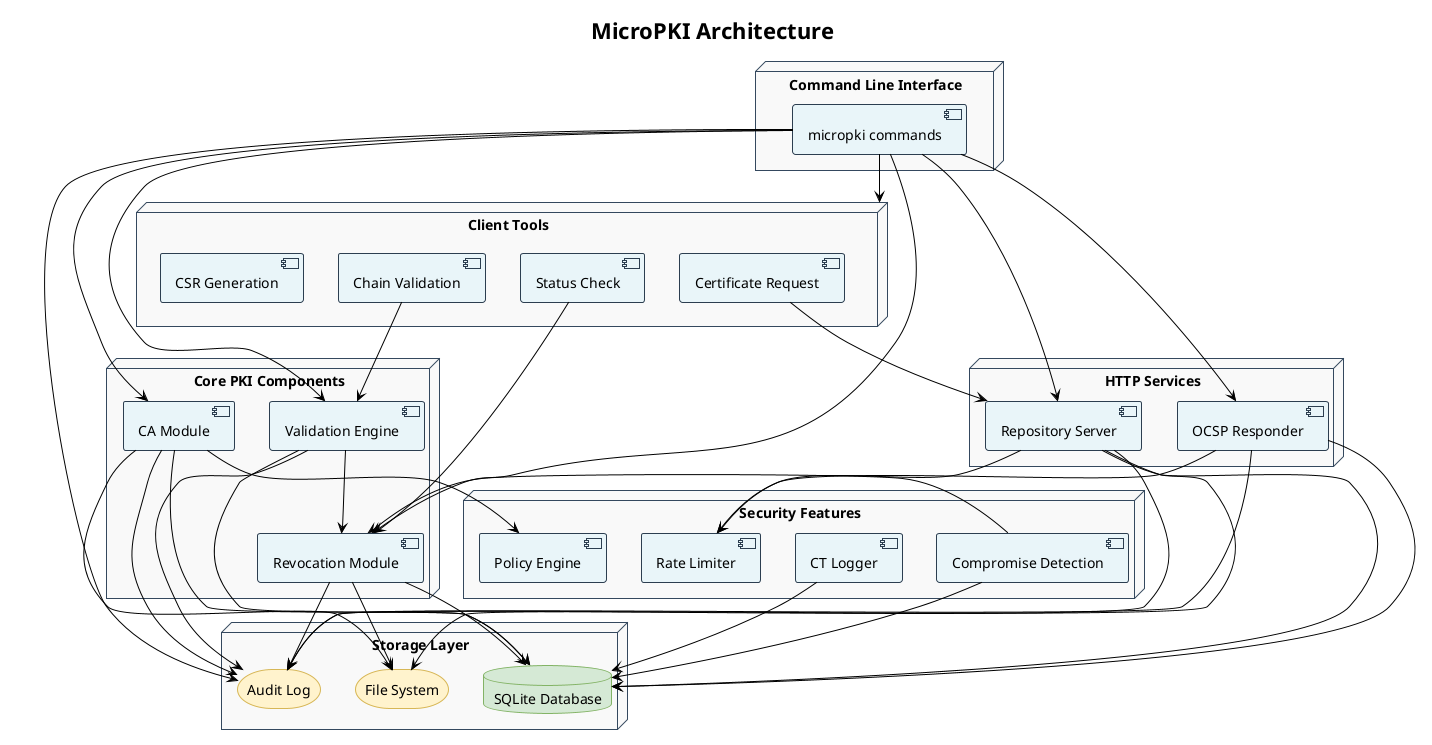
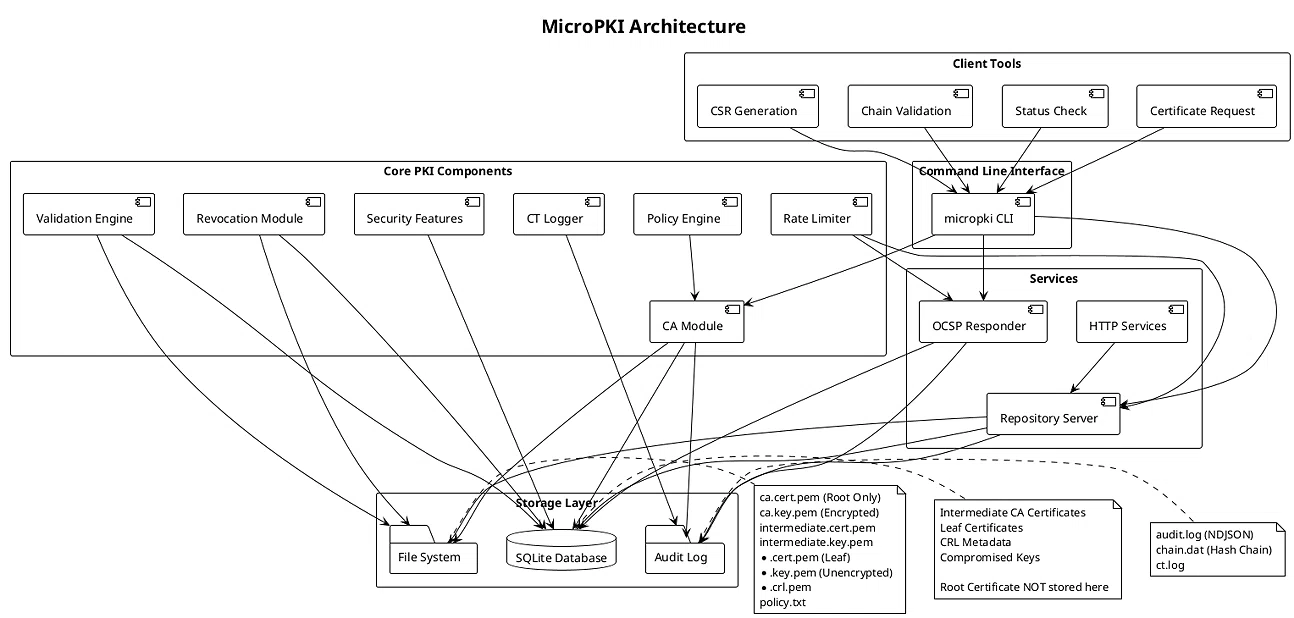
Правки в архитектуре.

Changed region(s): [[0.0309, 0.0307, 1.0, 1.0], [0.9583, 0.7071, 0.9892, 0.7686]]

diff --git a/micropki/cmd/micropki/main.go b/micropki/cmd/micropki/main.go
@@ -660,8 +660,8 @@ func runCAInit(cmd *cobra.Command, args []string) error {
 	if err := pol.ValidateKeySize(keyType, keySize, policy.RootCA); err != nil {
 		logger.Error("нарушение политики размера ключа: %v", err)
 		logger.LogAuditError("policy_violation", err.Error(), map[string]interface{}{
-			"key_type": keyType,
-			"key_size": keySize,
+			"key_type":  keyType,
+			"key_size":  keySize,
 			"cert_type": "root_ca",
 		})
 		return err
@@ -670,7 +670,7 @@ func runCAInit(cmd *cobra.Command, args []string) error {
 		logger.Error("нарушение политики срока действия: %v", err)
 		logger.LogAuditError("policy_violation", err.Error(), map[string]interface{}{
 			"validity_days": validityDays,
-			"cert_type": "root_ca",
+			"cert_type":     "root_ca",
 		})
 		return err
 	}
@@ -690,7 +690,6 @@ func runCAInit(cmd *cobra.Command, args []string) error {
 			logger.Warn("не удалось открыть БД: %v", err)
 		} else {
 			defer db.Close()
-			certs.InitSerialGenerator(db)
 		}
 	}
 
@@ -746,8 +745,8 @@ func runCAIssueIntermediate(cmd *cobra.Command, args []string) error {
 	if err := pol.ValidateKeySize(keyType, keySize, policy.IntermediateCA); err != nil {
 		logger.Error("нарушение политики размера ключа: %v", err)
 		logger.LogAuditError("policy_violation", err.Error(), map[string]interface{}{
-			"key_type": keyType,
-			"key_size": keySize,
+			"key_type":  keyType,
+			"key_size":  keySize,
 			"cert_type": "intermediate_ca",
 		})
 		return err
@@ -756,7 +755,7 @@ func runCAIssueIntermediate(cmd *cobra.Command, args []string) error {
 		logger.Error("нарушение политики срока действия: %v", err)
 		logger.LogAuditError("policy_violation", err.Error(), map[string]interface{}{
 			"validity_days": validityDays,
-			"cert_type": "intermediate_ca",
+			"cert_type":     "intermediate_ca",
 		})
 		return err
 	}
@@ -1039,12 +1038,12 @@ func runCAIssueCert(cmd *cobra.Command, args []string) error {
 	initAuditIfNeeded(filepath.Dir(filepath.Dir(outDir)))
 
 	pol := getPolicy()
-	
+
 	if err := pol.ValidateValidityPeriod(policy.EndEntity, validityDays); err != nil {
 		logger.Error("нарушение политики срока действия: %v", err)
 		logger.LogAuditError("policy_violation", err.Error(), map[string]interface{}{
 			"validity_days": validityDays,
-			"cert_type": "end_entity",
+			"cert_type":     "end_entity",
 		})
 		return err
 	}

diff --git a/micropki/internal/ca/ca.go b/micropki/internal/ca/ca.go
@@ -164,14 +164,7 @@ func (ca *RootCA) Initialize() error {
 	}
 	logger.Info("сертификат сохранен")
 
-	if ca.DB != nil {
-		logger.Info("сохранение корневого сертификата в БД")
-		if err := ca.DB.InsertCertificate(ca.certificate, ca.certPEM, "valid"); err != nil {
-			logger.Error("ошибка вставки сертификата в БД: %v", err)
-		} else {
-			logger.Info("корневой сертификат сохранен в БД")
-		}
-	}
+	// Корневой сертификат НЕ сохраняется в БД (только в файловой системе)
 
 	logger.Info("проверка соответствия ключа и сертификата...")
 	if err := ca.verifyKeyPair(); err != nil {

diff --git a/README.md b/README.md
@@ -1,7 +1,7 @@
 # MicroPKI
 
 [![License: MIT](https://img.shields.io/badge/License-MIT-yellow.svg)](https://opensource.org/licenses/MIT)
-[![Coverage](https://img.shields.io/badge/coverage-79.3%25-brightgreen)](https://github.com/serblowup/MicroPKI)
+[![Coverage](https://img.shields.io/badge/coverage-79.2%25-brightgreen)](https://github.com/serblowup/MicroPKI)
 
 Минимальная реализация инфраструктуры открытых ключей (PKI) в рамках курса криптографии.
 
@@ -29,9 +29,9 @@
 - Безопасное хранение ключей с шифрованием (AES-256)
 - Генерация X.509 сертификатов с правильными расширениями
 - Документирование политики сертификации
-- SQLite БД для хранения всех выпущенных сертификатов
+- SQLite БД для хранения сертификатов **промежуточных УЦ и конечных субъектов** (корневой сертификат хранится только в файловой системе)
 - Уникальные серийные номера (64-битные: timestamp + random)
-- Автоматическое сохранение сертификатов в БД при выпуске
+- Автоматическое сохранение сертификатов в БД при выпуске (intermediate и leaf)
 - Просмотр сертификатов в табличном, JSON и CSV форматах
 - HTTP репозиторий для получения сертификатов, CRL и приема CSR по API
 
@@ -48,8 +48,8 @@
 | **CA Module** | Создание и управление корневым и промежуточными УЦ, выпуск сертификатов с поддержкой шаблонов |
 | **Validation Engine** | Построение цепочек сертификатов, валидация путей по RFC 5280, проверка подписей и сроков действия |
 | **Revocation Module** | Управление отзывом сертификатов, генерация CRL, OCSP-ответчик для проверки статуса в реальном времени |
-| **SQLite Database** | Хранение всех выпущенных сертификатов, метаданных CRL и скомпрометированных ключей |
-| **File System** | Хранение зашифрованных ключей УЦ, PEM-сертификатов и CRL-файлов с правами 0600/0700 |
+| **SQLite Database** | Хранение сертификатов **промежуточных УЦ и конечных субъектов**, метаданных CRL и скомпрометированных ключей. **Корневой сертификат хранится только в файловой системе.** |
+| **File System** | Хранение зашифрованных ключей УЦ, PEM-сертификатов (включая корневой) и CRL-файлов с правами 0600/0700 |
 | **Audit Log** | NDJSON-формат с SHA-256 хеш-цепочкой для защиты от подделки |
 | **Repository Server** | HTTP API для получения сертификатов, распространения CRL и приёма CSR |
 | **OCSP Responder** | Ответчик по протоколу OCSP с кэшированием и ограничением частоты запросов |
@@ -58,7 +58,6 @@
 | **CT Logger** | Симуляция Certificate Transparency для аудита |
 | **Compromise Detection** | Отслеживание скомпрометированных ключей и блокировка их повторного использования |
 | **Client Tools** | Утилиты для генерации CSR, запроса сертификатов, валидации цепочек и проверки статуса |
-```
 
 ## Требования
 
@@ -123,7 +122,8 @@ make scripts
 #### `ca init` - инициализация корневого УЦ
 
 ```bash
-# Создание корневого УЦ (RSA 4096) с сохранением в БД
+# Создание корневого УЦ (RSA 4096)
+# Корневой сертификат сохраняется ТОЛЬКО в файловой системе (не в БД)
 ./bin/micropki ca init \
     --subject "/CN=Test Root CA" \
     --key-type rsa \
@@ -416,6 +416,8 @@ make scripts
 | `--format` | Формат вывода: `table`, `json`, `csv` | `table` |
 | `--log-file` | Файл для логов | stderr |
 
+**Примечание:** Команда `list-certs` показывает только сертификаты, сохранённые в БД (промежуточные УЦ и конечные). Корневой сертификат в этот список **не включается**, так как он хранится только в файловой системе.
+
 #### `ca show-cert` - просмотр конкретного сертификата
 
 ```bash
@@ -431,6 +433,8 @@ make scripts
 | `serial` | Серийный номер в hex формате (обязательно) | - |
 | `--db-path` | Путь к SQLite базе данных | `./pki/micropki.db` |
 | `--log-file` | Файл для логов | stderr |
+
+**Примечание:** Команда `show-cert` ищет сертификат только в БД. Для получения корневого сертификата используйте `GET /ca/root` или直接 читайте файл `certs/ca.cert.pem`.
 
 #### `ca verify` - проверка цепочки сертификатов
 
@@ -859,6 +863,8 @@ curl http://127.0.0.1:8080/ca/intermediate -o inter.pem
 curl http://127.0.0.1:8080/certificate/0baee839362091a1 -o cert.pem
 ```
 
+> **Примечание:** Этот эндпоинт ищет сертификаты **только в БД**. Корневой сертификат (который не сохраняется в БД) через этот эндпоинт недоступен. Для получения корневого сертификата используйте `GET /ca/root`.
+
 #### `POST /request-cert` - запрос сертификата из CSR
 
 ```bash
@@ -906,28 +912,28 @@ curl "http://127.0.0.1:8080/crl?ca=root" -o root.crl.pem
 
 ```
 ./pki/
-├── micropki.db                  # SQLite база данных
+├── micropki.db                  # SQLite база данных (intermediate и leaf сертификаты)
 ├── audit/                       # Аудит-система
 │   ├── audit.log               # Аудит-лог (NDJSON)
 │   ├── chain.dat               # Хеш-цепочка
-│   └── ct.log                   # CT лог
+│   └── ct.log                  # CT лог
 ├── private/
-│   ├── ca.key.pem               # зашифрованный ключ корневого УЦ (0600)
-│   └── intermediate.key.pem     # зашифрованный ключ промежуточного УЦ (0600)
+│   ├── ca.key.pem              # зашифрованный ключ корневого УЦ (0600)
+│   └── intermediate.key.pem    # зашифрованный ключ промежуточного УЦ (0600)
 ├── certs/
-│   ├── ca.cert.pem              # сертификат корневого УЦ
-│   ├── intermediate.cert.pem    # сертификат промежуточного УЦ
-│   ├── example.com.cert.pem     # конечные сертификаты
-│   └── example.com.key.pem      # незашифрованные ключи (0600)
+│   ├── ca.cert.pem             # сертификат корневого УЦ (только в ФС)
+│   ├── intermediate.cert.pem   # сертификат промежуточного УЦ
+│   ├── example.com.cert.pem    # конечные сертификаты
+│   └── example.com.key.pem     # незашифрованные ключи (0600)
 ├── csrs/
-│   └── intermediate.csr.pem     # CSR промежуточного УЦ
-├── crl/                         # CRL файлы
-│   ├── root.crl.pem             # CRL корневого УЦ
-│   └── intermediate.crl.pem     # CRL промежуточного УЦ
-├── ocsp/                        # OCSP файлы
-│   ├── ocsp.cert.pem            # сертификат OCSP-ответчика
-│   └── ocsp.key.pem             # незашифрованный ключ OCSP-ответчика (0600)
-└── policy.txt                   # документ политики сертификации
+│   └── intermediate.csr.pem    # CSR промежуточного УЦ
+├── crl/                        # CRL файлы
+│   ├── root.crl.pem            # CRL корневого УЦ
+│   └── intermediate.crl.pem    # CRL промежуточного УЦ
+├── ocsp/                       # OCSP файлы
+│   ├── ocsp.cert.pem           # сертификат OCSP-ответчика
+│   └── ocsp.key.pem            # незашифрованный ключ OCSP-ответчика (0600)
+└── policy.txt                  # документ политики сертификации
 ```
 
 ---
@@ -942,7 +948,7 @@ curl "http://127.0.0.1:8080/crl?ca=root" -o root.crl.pem
 echo "rootpass123" > ./root.pass
 echo "interpass123" > ./inter.pass
 
-# 3. Создание корневого УЦ
+# 3. Создание корневого УЦ (сертификат НЕ сохраняется в БД)
 ./bin/micropki ca init \
     --subject "/CN=Test Root CA" \
     --passphrase-file ./root.pass \
@@ -950,7 +956,7 @@ echo "interpass123" > ./inter.pass
     --db-path ./pki/micropki.db \
     --force
 
-# 4. Создание промежуточного УЦ
+# 4. Создание промежуточного УЦ (сертификат сохраняется в БД)
 ./bin/micropki ca issue-intermediate \
     --root-cert ./pki/certs/ca.cert.pem \
     --root-key ./pki/private/ca.key.pem \
@@ -1092,7 +1098,7 @@ make test-audit
 3. **Ключи конечных субъектов**: сохраняются незашифрованными с правами 0600 (с предупреждением)
 4. **Парольная фраза**: никогда не попадает в логи (автоматически скрывается)
 5. **Временные данные**: очищаются из памяти после использования
-6. **База данных**: SQLite с правами 0644, чувствительные данные не хранятся
+6. **База данных**: SQLite с правами 0644, содержит **только сертификаты промежуточных УЦ и конечных субъектов**. **Корневой сертификат хранится только в файловой системе** и не дублируется в БД.
 7. **Аудит-лог**: криптографическая целостность через SHA-256 хеш-цепочку, защита от подделки
 8. **Политики безопасности**: принудительная проверка размеров ключей, сроков действия, типов SAN
 9. **Компрометация ключей**: отслеживание и блокировка скомпрометированных ключей
@@ -1123,8 +1129,8 @@ MicroPKI/
 │       ├── 7 sprint.md
 │       └── 8 sprint.md
 ├── .github
-│   └── workflows
-│       └── test.yml
+│   └── workflows
+│       └── test.yml
 ├── .gitignore
 ├── LICENSE                       # MIT License
 ├── micropki
@@ -1234,7 +1240,6 @@ MicroPKI/
 └── README.md
 ```
 
-
 ### Покрытие кода
 
 ```bash
@@ -1248,4 +1253,4 @@ go tool cover -func=coverage.out | grep total
 go tool cover -html=coverage.out
 ```
 
-**Текущее покрытие:** **79.3%**
+**Текущее покрытие:** **79.2%**

diff --git a/docs/USERGUIDE.md b/docs/USERGUIDE.md
@@ -42,6 +42,8 @@ echo "mysecret" > root.pass
     --out-dir ./pki
 ```
 
+> **Примечание:** Корневой сертификат сохраняется **только в файловой системе** (`certs/ca.cert.pem`) и не дублируется в БД.
+
 ### 3. Создание промежуточного УЦ
 
 ```bash
@@ -54,6 +56,8 @@ echo "intersecret" > inter.pass
     --passphrase-file ./inter.pass \
     --out-dir ./pki
 ```
+
+> **Примечание:** Сертификат промежуточного УЦ сохраняется **и в файловой системе, и в БД**.
 
 ### 4. Выпуск сертификата
 
@@ -68,6 +72,8 @@ echo "intersecret" > inter.pass
     --out-dir ./pki/certs
 ```
 
+> **Примечание:** Конечные сертификаты сохраняются **и в файловой системе, и в БД**.
+
 ## Основные операции
 
 ### Управление сертификатами
@@ -77,6 +83,10 @@ echo "intersecret" > inter.pass
 ```bash
 ./bin/micropki ca list-certs --db-path ./pki/micropki.db
 ```
+
+> **Примечание:** Команда показывает только сертификаты, сохранённые в БД
+> (промежуточные УЦ и конечные). Корневой сертификат в этот список не включается,
+> так как он хранится только в файловой системе.
 
 #### Просмотр конкретного сертификата
 
@@ -293,7 +303,7 @@ echo "intersecret" > inter.pass
 
 ```
 ./pki/
-├── micropki.db                  # SQLite база данных
+├── micropki.db                  # SQLite база данных (intermediate и leaf сертификаты)
 ├── audit/                       # Аудит-система
 │   ├── audit.log               # Аудит-лог (NDJSON)
 │   ├── chain.dat               # Хеш-цепочка
@@ -302,7 +312,7 @@ echo "intersecret" > inter.pass
 │   ├── ca.key.pem              # зашифрованный ключ корневого УЦ (0600)
 │   └── intermediate.key.pem    # зашифрованный ключ промежуточного УЦ (0600)
 ├── certs/
-│   ├── ca.cert.pem             # сертификат корневого УЦ
+│   ├── ca.cert.pem             # сертификат корневого УЦ (только в ФС)
 │   ├── intermediate.cert.pem   # сертификат промежуточного УЦ
 │   ├── example.com.cert.pem    # конечные сертификаты
 │   └── example.com.key.pem     # незашифрованные ключи (0600)

diff --git a/docs/API.md b/docs/API.md
@@ -56,6 +56,8 @@ curl http://localhost:8080/health
 
 Возвращает сертификат корневого УЦ в формате PEM.
 
+> **Примечание:** Корневой сертификат хранится **только в файловой системе** и не дублируется в БД. Этот эндпоинт читает файл `certs/ca.cert.pem` напрямую.
+
 **Пример запроса:**
 
 ```bash
@@ -111,6 +113,10 @@ curl http://localhost:8080/ca/intermediate -o intermediate.cert.pem
 **`GET /certificate/{serial}`**
 
 Возвращает сертификат в формате PEM по его серийному номеру (в hex-формате).
+
+> **Важно:** Этот эндпоинт ищет сертификаты **только в SQLite базе данных**.
+> Корневой сертификат (который не сохраняется в БД) через этот эндпоинт недоступен.
+> Для получения корневого сертификата используйте `GET /ca/root`.
 
 **Параметры пути:**
 
@@ -418,6 +424,7 @@ curl http://localhost:8080/crl -o intermediate.crl.pem
 
 ## Безопасность
 
+- Корневой сертификат хранится **только в файловой системе** и не дублируется в БД
 - Ключи OCSP-ответчика и конечных субъектов хранятся **незашифрованными**
 - Сервер не использует TLS — рекомендуется запускать за reverse proxy (nginx, Caddy)
 - Rate limiting не защищает от распределённых атак (DDoS)
